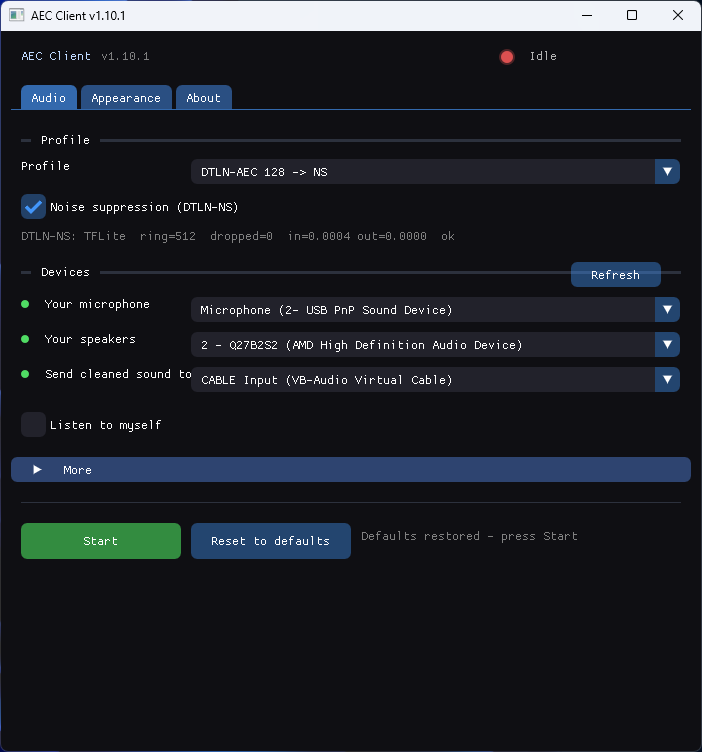
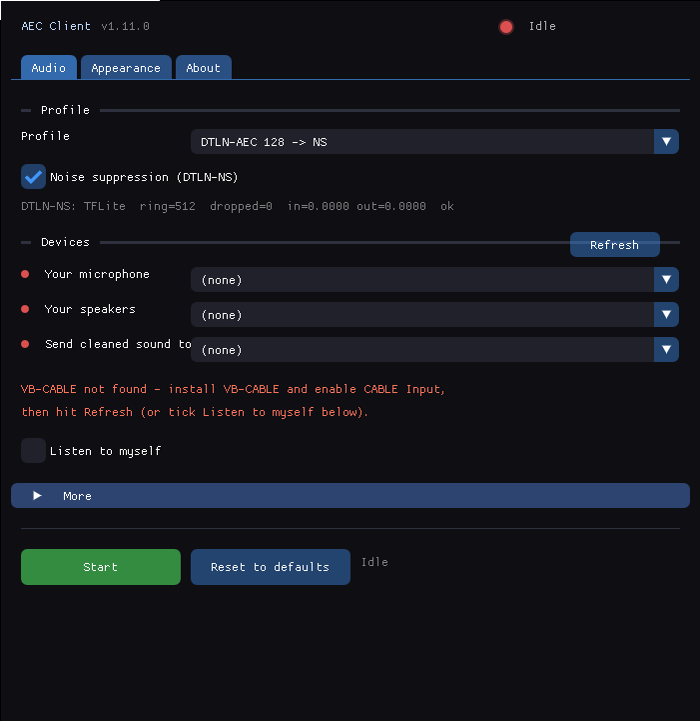
docs: v1.12.0 doc pass + side-by-side desktop/web screenshots

Changed region(s): [[0.0, 0.0, 1.0, 1.0], [0.63, 0.4577, 0.75, 0.4882], [0.0, 0.9764, 0.03, 1.0]]

diff --git a/README.md b/README.md
@@ -2,7 +2,9 @@
 
 > Real-time acoustic echo cancellation for Windows — use speakers and a microphone at the same time in Discord, Zoom, Teams, or any other voice app.
 
-![AEC Client screenshot](screenshots/main.png)
+![AEC Client — desktop app (left) and web UI (right), same Idle state](screenshots/desktop-and-web.png)
+
+*Left: desktop `aec_gui.exe`. Right: web UI served from this repo (`web/start.bat`). Same three profiles, same chain, same telemetry — pick the window you prefer.*
 
 **Built entirely with open-source tools.** No proprietary SDKs. No cloud dependencies. No telemetry.
 
@@ -52,7 +54,7 @@ No more headphones. No more echo. No dead-air noise.
   - AEC3 and NKF-AEC are **experimental** — hidden from the menu by default; tick **Show experimental engines** on the Appearance tab to reveal them.
 - **What you see is what runs** — the profile label always reads `engine` or `engine → NS`, and the status line reports the running chain, e.g. `Running (16000 Hz, DTLN-AEC + NS)`.
 - **Noise suppression (DTLN-NS)** — a second DTLN pair (same DSP as the echo canceller, minus the loud-playback feed) that removes background noise from the mic. Runs after the engine on every path.
-- **Voice never cut** — a soft limiter replaces hard clipping, and every fail path fades instead of muting; NKF keeps its divergence guard, staged exposure, loop brakes and no-cancel watchdog (all self-releasing, all voice-safe by construction).
+- **Voice never cut** — a soft limiter replaces hard clipping, and every fail path fades instead of muting; NKF keeps its divergence guard, staged exposure, loop brakes, no-cancel watchdog and loop-gated tracking notch (all self-releasing, all voice-safe by construction).
 - **Low CPU usage** — engines typically well under 2% per stream on a typical desktop; the post stages add a fraction of a percent.
 - **Low latency** — 30–40 ms round-trip
 - **Works with any audio device** — speakers, earphones, headsets
@@ -68,8 +70,6 @@ No more headphones. No more echo. No dead-air noise.
 ---
 
 ## Web UI (Python, no installer)
-
-![AEC Web UI](screenshots/web-ui.png)
 
 All three engine profiles (**DTLN-AEC 128**, **WebRTC AEC3**,
 **NKF-AEC**, each optionally followed by DTLN-NS) also run as a
@@ -143,7 +143,7 @@ Done. Talk normally with speakers on.
 > Every release is built straight from the public source in this repo
 > — audit it, rebuild it, or scan the ZIP on VirusTotal if unsure.
 >
-> **VirusTotal record (v1.11.0, pre-publish scans).** Both release
+> **VirusTotal record (v1.12.0, pre-publish scans).** Both release
 > ZIPs scan **0 detections**. The standalone `aec_gui.exe` draws one
 > flag — SecureAge only (unsigned-file reputation); Defender,
 > Bitdefender, Kaspersky and ESET are clean, and its behavior tab is
@@ -259,7 +259,7 @@ The release ZIP bundles all required DLLs:
 
 | File | Size | Purpose |
 |------|------|---------|
-| `aec_gui.exe` | ~2.4 MB | Main application (includes the NKF neural engine) |
+| `aec_gui.exe` | ~1.9 MB | Main application (includes the NKF neural engine) |
 | `libwebrtc-audio-processing-1-3.dll` | ~950 KB | WebRTC AEC3 + high-pass filter |
 | `onnxruntime.dll` | ~16 MB | Neural inference (NKF, DTLN ONNX fallback; official MS build, uncompressed) |
 | `msvcp140/vcruntime140*.dll` | ~900 KB | VC++ 14 runtime (required by onnxruntime.dll) |
@@ -301,7 +301,7 @@ Settings are saved automatically. Only one copy of the app runs at a time (openi
 | Language | Role |
 |----------|------|
 | **C++17** | Main application |
-| **Python** | Web UI (server, DSP, engines via LiteRT) |
+| **Python** | Web UI (server, DSP, engines via LiteRT / pywebrtc-audio / onnxruntime) |
 | **C** | Third-party libraries (miniaudio, stb_image, GGML via NKF) |
 | **CMake** | Build system |
 | **Bash** | Build scripts |
@@ -371,7 +371,7 @@ Web UI only (`web/`):
 - Lock-free SPSC ring buffers (audio thread ↔ UI thread)
 - Clock-drift correction (dynamic sample drop/duplicate)
 - RMS metering (live levels show the post-stage signal)
-- Self-monitor loop brakes (NKF: wire trim + escalation, fast backstop attack, no-cancel watchdog — the engine keeps adapting underneath)
+- Self-monitor loop brakes (NKF: wire trim + escalation, loop-gated tracking notch, no-cancel watchdog — the engine keeps adapting underneath)
 
 ---
 
@@ -384,7 +384,7 @@ NKF-AEC (Neural Kalman Filtering for Acoustic Echo Cancellation) is a research m
 - **Model size**: 45 KB (~5.3K parameters — tiny *neural* core)
 - **Sample rate**: 16 kHz (auto-locked)
 - **Latency**: ~32 ms
-- **CPU**: Small for the NKF core alone (paper RTF 0.09). **Not** measured against AEC3 in this app. The linear Kalman core carries an intrinsic Wiener residual suppressor (per-bin gain from its own echo estimate — the **NKF-AEC** profile is Kalman + RES + DTLN-NS stacked). Monitor loops meet downstream brakes only (wire trim with escalation, fast backstop attack, no-cancel watchdog): the engine never freezes or un-exposes, which field tests showed sustains howls.
+- **CPU**: Small for the NKF core alone (paper RTF 0.09). **Not** measured against AEC3 in this app. The linear Kalman core carries an intrinsic Wiener residual suppressor (per-bin gain from its own echo estimate — the **NKF-AEC** profile is Kalman + RES + DTLN-NS stacked). Monitor loops meet downstream brakes only (wire trim with escalation, loop-gated tracking notch, no-cancel watchdog): the engine never freezes or un-exposes, which field tests showed sustains howls.
 
 The wrapper at `src/nkf_wrapper.cpp` handles real-time streaming via the `ProcessBlock()` extension we added.
 
@@ -556,9 +556,14 @@ aec-client/
 │   ├── audio.py                pyaudiowpatch callback-mode mic/loopback/CABLE I/O
 │   ├── dsp.py                  rFFT/OLA framing, resampling, meters (+ optional Rust ext/)
 │   ├── dtln.py / dtln_ns.py    DTLN-AEC / DTLN-NS engines (LiteRT)
+│   ├── aec3.py               WebRTC AEC3 engine (pywebrtc-audio)
+│   ├── nkf.py                NKF-AEC engine + stages (onnxruntime, NumPy port)
 │   ├── ui/index.html           The GUI
 │   ├── test_offline.py         WAV-in → WAV-out fidelity harness
-│   ├── requirements.txt        PyPI wheels
+│   ├── test_nkf_res.py       NKF RES regressions (T1–T3)
+│   ├── test_nkf_loop.py      NKF closed-loop regressions (L1–L8)
+│   ├── test_nkf_notch.py     NKF tracking-notch regressions (N1–N2)
+│   ├── requirements*.txt        base / window / engines / full sets
 │   └── README.md               Web UI docs
 │
 ├── screenshots/
@@ -570,7 +575,8 @@ aec-client/
 │
 ├── CMakeLists.txt                  Build configuration
 ├── scripts/
-│   ├── make-desktop-build.sh      Desktop app build (quiet, app-only, --run to launch)
+│   ├── make-desktop-build.sh      Desktop app build (quiet; --fresh to wipe, --run to launch, --with-smoke for test tools)
+│   ├── make-web-build.sh          Web runtime prepare + verify (venv, packages, engine smoke; --lean for base set, --run to launch)
 │   ├── test.sh                     Offline test suite (native + web)
 │   ├── make-release-desktop.sh     Desktop release bundle + zip builder
 │   ├── make-release-web.sh         Web release bundle + zip builder

diff --git a/web/ui/README-imgui.md b/web/ui/README-imgui.md
@@ -34,7 +34,7 @@ engines.
 - Microphone level 0–200% (More → Levels, like the desktop)
 - Noise suppression toggle (live) — DTLN-NS post stage on every engine
 - Profile section (3 engines, hot-swappable while running; extras hidden until experimental tick)
-- NKF telemetry line (delay lock, exposure, backstop/loop/RES trim, guard resets)
+- NKF telemetry line (delay lock, exposure, notch/loop/RES trim, guard resets)
 - Start/Stop + Reset to defaults, with live status
 - Live level meters (Mic/Out), while running
 - Minimize to system tray (native window only)
@@ -92,16 +92,25 @@ WebAssembly.
 3. **Feature Parity**: All desktop functionality available
 4. **Modern Look**: Professional UI with smooth interactions
 5. **Performance**: Same audio processing as desktop, just web-based UI
-6. **Cross-Platform**: Works on any platform with pywebview support
+6. **Windows-native I/O**: same WASAPI loopback + CABLE model as the desktop (via `pyaudiowpatch`), not a cross-platform browser-mic app
 7. **Low Maintenance**: Reuses all existing backend logic
 8. **Universal Compatibility**: Works in all modern browsers without WebAssembly
 
 ## Limitations
 
-1. **Browser Dependencies**: Requires modern browser with Web Workers support
-2. **Graphics**: Limited 2D/3D capabilities vs native OpenGL
-3. **System Integration**: Some desktop features (tray, wallpaper) may have limitations
-4. **Performance**: Generally acceptable for real-time audio processing
+1. **Windows + hardware to actually run.** The page renders
+   anywhere, but Start needs the local server with `pyaudiowpatch`
+   (WASAPI loopback), VB-CABLE, and a mic + speakers — on a machine
+   without them the device lists stay empty and the cable check
+   warns, exactly like the desktop app with no devices.
+2. **Meters need the WebSocket.** If `/ws` can't connect the page
+   shows "Server disconnected — retrying…" and meters freeze;
+   controls still POST. (Needs the `websockets` package server-side
+   — part of the base install.)
+3. **Appearance extras are per-context.** Minimize-to-tray lives in
+   the native window only (hidden in a browser tab); the wallpaper
+   picker is a browser-side backdrop remembered in localStorage,
+   not the desktop's wallpaper file.
 
 ## Usage
 

diff --git a/web/README.md b/web/README.md
@@ -50,8 +50,8 @@ native window, and all 3 engines), then opens the GUI
 in a native app window (Edge WebView2 — built into
 Windows 10/11, so no browser is needed) once the models
 are loaded. The WebRTC AEC3 / NKF-AEC profiles appear
-once you tick "Show experimental engines" in Appearance
--> Behavior. Click it again any time to open another
+once you tick "Show experimental engines" on the Appearance
+tab. Click it again any time to open another
 window against the running server. Stop: close the
 window — the server stops with it — or press Ctrl+C in
 the console. The Appearance tab minimizes to the system
@@ -114,8 +114,9 @@ Open http://localhost:8000 — that page IS the GUI.
 - **NKF-AEC** (`models/nkf.onnx` via `onnxruntime`) — NumPy port of
   the desktop Kalman core + wrapper stages (TDC alignment,
   shadow/crossfade exposure, divergence guard, loop brakes,
-  howl backstop, intrinsic Wiener RES), experimental-gated.
-  Hot-swappable while running; telemetry mirrors the desktop lines.
+  loop-gated tracking notch, intrinsic Wiener RES),
+  experimental-gated. Hot-swappable while running; telemetry
+  mirrors the desktop lines.
 - **DTLN-NS** (`models/dtln_ns_128_*.tflite`) after the engine,
   fail-open — missing/broken models pass audio through, never mute.
 - **Mic preamp** (`chain.py` `mic_gain`, `micGain` pref): 0–200%
@@ -141,7 +142,8 @@ Open http://localhost:8000 — that page IS the GUI.
 | `ui/index.html` | Classic fallback GUI at `/classic` | — |
 | `test_offline.py` | WAV-in → WAV-out fidelity harness + engine smoke | — |
 | `test_nkf_res.py` | NKF RES regressions (T1–T3) | — |
-| `test_nkf_loop.py` | NKF closed-loop regressions (L1–L7) | `tools/nkf_smoke.cpp` role |
+| `test_nkf_loop.py` | NKF closed-loop regressions (L1–L8) | `tools/nkf_smoke.cpp` role |
+| `test_nkf_notch.py` | NKF tracking-notch regressions (N1–N2) | — |
 | `requirements*.txt` | base / window / engines / full sets | — |
 | `start.bat` | Double-click launcher (full install, native window) | — |
 

diff --git a/CHANGELOG.md b/CHANGELOG.md
@@ -30,22 +30,8 @@ and this project adheres to [Semantic Versioning](https://semver.org/spec/v2.0.0
   Driven by pre-suppression census (no self-blinding oscillation).
   Measured: 440 Hz tracked at 438 Hz (+17.8 dB over no-notch),
   20 Hz/s chirp tracked within 9 Hz (+13 dB), both released after;
-  voice bursts never engage it. (`web/nkf.py`, `web/test_nkf_notch.py`.)
-
-### Added
-
-- **Web NKF tracking notch replaces the broadband backstop trim.**
-  Same engagement/heal conditions (voice protection identical by
-  construction), but the actuator is a loop-gated RBJ notch steered
-  per block (slew-limited, depth-ramped, exact bypass): stable tones
-  die like before, slow sweeps are tracked instead of escaping,
-  and voice outside one band survives untouched. Driven by
-  pre-suppression census (no self-blinding oscillation), releases
-  on toneless windows or classic heal proof. Measured: stable
-  440 Hz killed at 438 Hz tracking (+17.8 dB over no-notch),
-  20 Hz/s chirp tracked within 9 Hz (+13 dB), both released
-  after; voice bursts never engage it. (`web/nkf.py`,
-  `web/test_nkf_notch.py` N1–N2.)
+  voice bursts never engage it. (`web/nkf.py`, `web/test_nkf_notch.py`
+  N1–N2.)
 
 ## [1.11.0] - 2026-10-08
 

diff --git a/SECURITY.md b/SECURITY.md
@@ -13,7 +13,7 @@ decision below follows from that rule.
   tab (8 LOW + 10 INFO, zero dropped files / C2 / persistence).
   The bundled runtimes are legitimate; the *profile* (unsigned +
   uncommon + ML code) is what fires, never the behavior.
-- v1.11.0 record: both release ZIPs scan 0 detections. Standalone
+- v1.12.0 record: both release ZIPs scan 0 detections. Standalone
   `aec_gui.exe`: SecureAge only (Defender, Bitdefender, Kaspersky,
   ESET clean).
 - One Bitdefender-family container heuristic fired on an interim web
@@ -96,7 +96,6 @@ that is why the web build exists.
   clean 0/61 row exonerates; a flagged row names the surgery);
   (c) only the FINAL bytes matter — verdicts attach to hashes, so
   never dispute or celebrate an interim build; scan what ships.
-- A Defender/ML false positive on the exe is fought with process,
 - A Defender/ML false positive on the exe is fought with process,
   not code tricks: submit the file to Microsoft Security
   Intelligence (filesubmission portal, "incorrectly detected as

diff --git a/scripts/README.md b/scripts/README.md
@@ -49,9 +49,13 @@ gitignored), edit these sources.
 - **web-res** (`python -m web.test_nkf_res`): NKF residual-suppressor
   transparency / echo gain / doubletalk fingerprint.
 - **web-loop** (`python -m web.test_nkf_loop`): closed-loop no-blowout,
-  brake engagement + release, give-up braking, escalation, and the
+  brake engagement + release, give-up braking, escalation,
+  sliding-drift boundary (L1–L8), and the
   loud-voice-no-false-trim guard.
+- **web-notch** (`python -m web.test_nkf_notch`): tracking-notch
+  stable-tone kill + sweep tracking + release, voice never engages
+  (N1–N2). Skips when the NKF backend is unavailable.
 
 Failures print where to look (`/tmp/nkf_smoke_out.txt`,
 `/tmp/web_smoke_out.txt`, `/tmp/web_res_out.txt`,
-`/tmp/web_loop_out.txt`, `nkf-phase.log`).
+`/tmp/web_loop_out.txt`, `/tmp/web_notch_out.txt`, `nkf-phase.log`).

diff --git a/ext/README.md b/ext/README.md
@@ -32,9 +32,11 @@ pure NumPy when it is absent — the extension is never required.
    ```
    maturin build --manifest-path ext/aec_dsp/Cargo.toml --release
    ```
-   for the shipping wheel. Copy the resulting
-   `aec_dsp*.pyd` next to `web/` (or install the wheel) — the
-   release script picks it up as `web/aec_dsp*.pyd`.
+    for the shipping wheel. The wheel is for local dev installs
+    only (`maturin develop` / `pip install` into your venv) —
+    a `.pyd` is a PE binary and must NEVER ship in a release zip
+    (`scripts/make-release-web.sh` asserts zero `.pyd` and fails
+    the build otherwise; `web/dsp.py` falls back to NumPy).
 
 Linux dev loop is identical (`maturin develop`).
 

diff --git a/LIBS.md b/LIBS.md
@@ -17,7 +17,7 @@ the CMake post-build step; install them with `pacman` per `README.md`.)
   `aec_gui.exe` if present (post-build step); the DTLN wrapper loads it at runtime,
   no link-time dependency.
 
-## Verification (SHA-256, v1.11.0)
+## Verification (SHA-256, v1.12.0)
 
 ```
 882e6d8f9866ff84f23d4b964c145b7f0f0a8907fa830dcd8c499e7c46bf3365  tensorflowlite_c.dll
@@ -29,8 +29,8 @@ Check with: `sha256sum libs/*`
 
 ```bash
 # From an official release ZIP:
-unzip -o -j AEC-Client-v1.11.0-win64.zip \
-  "AEC-Client-v1.11.0-win64/tensorflowlite_c.dll" -d libs/
+unzip -o -j AEC-Client-v1.12.0-win64.zip \
+  "AEC-Client-v1.12.0-win64/tensorflowlite_c.dll" -d libs/
 ```
 
 ## Notes
